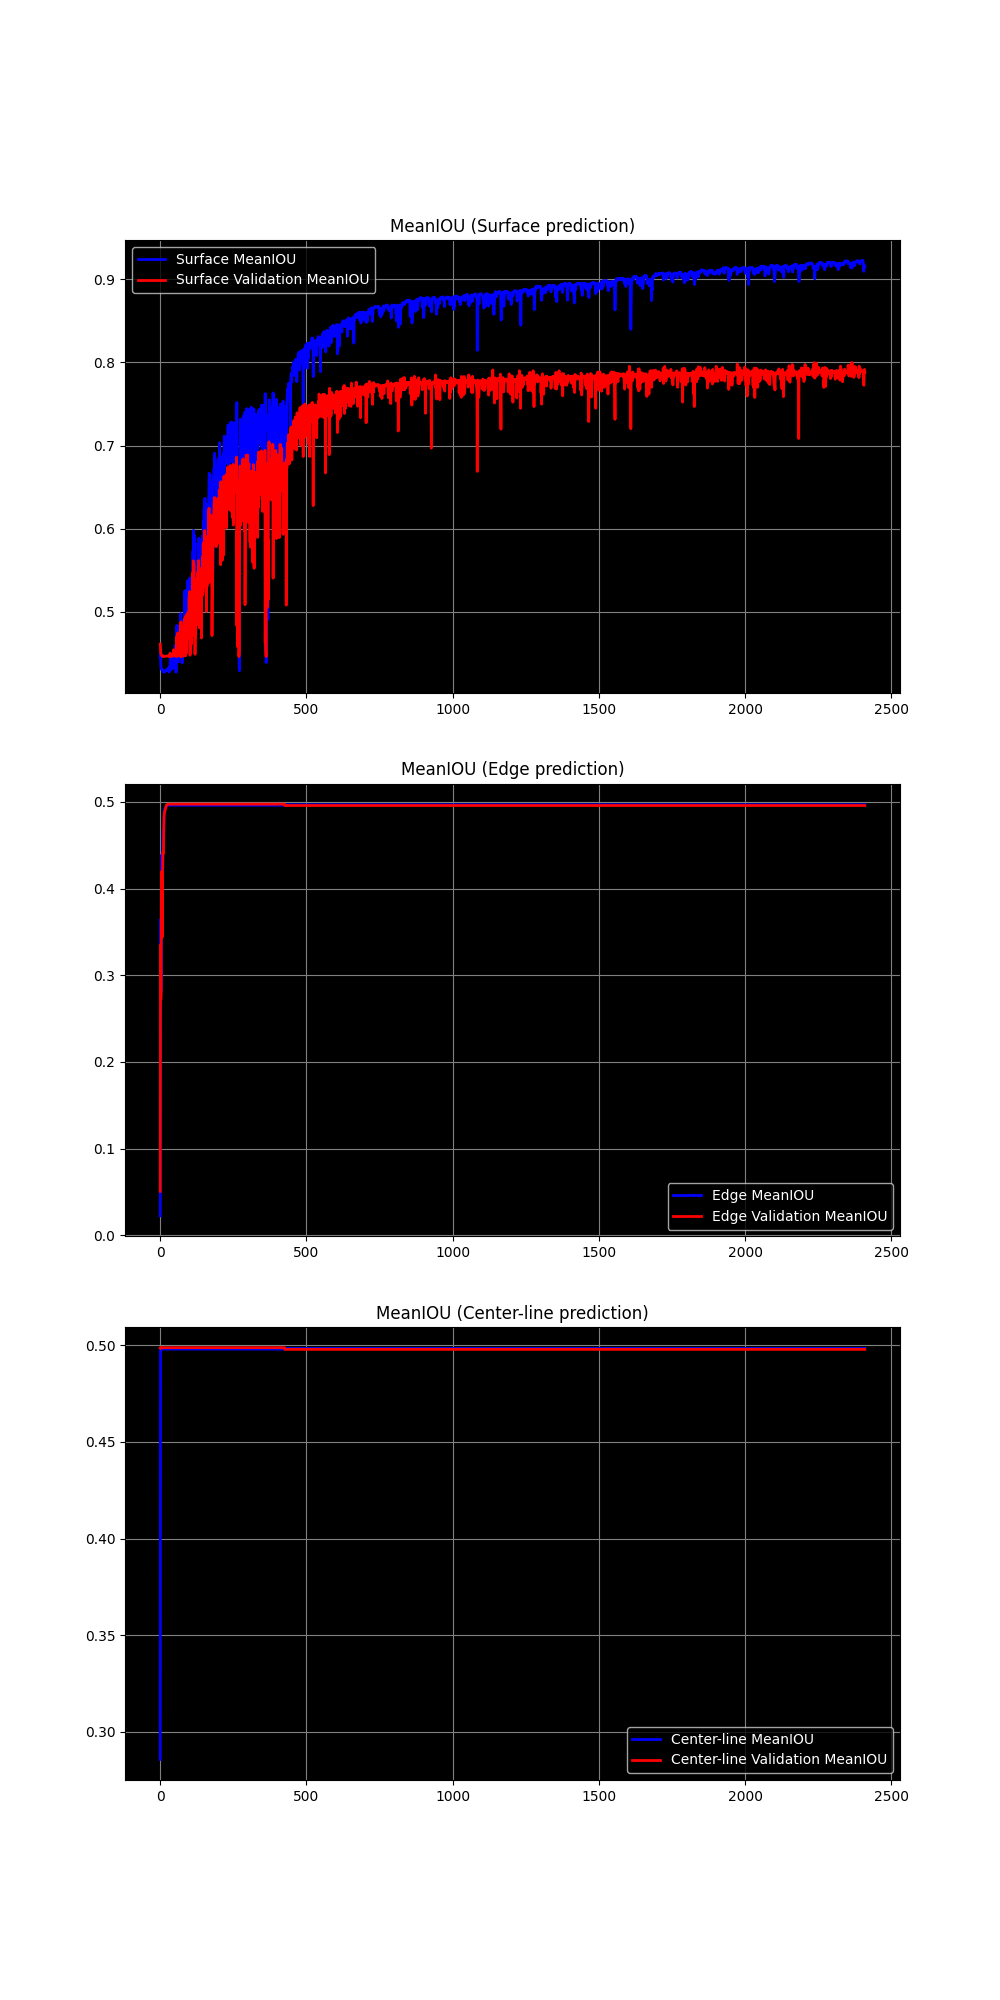
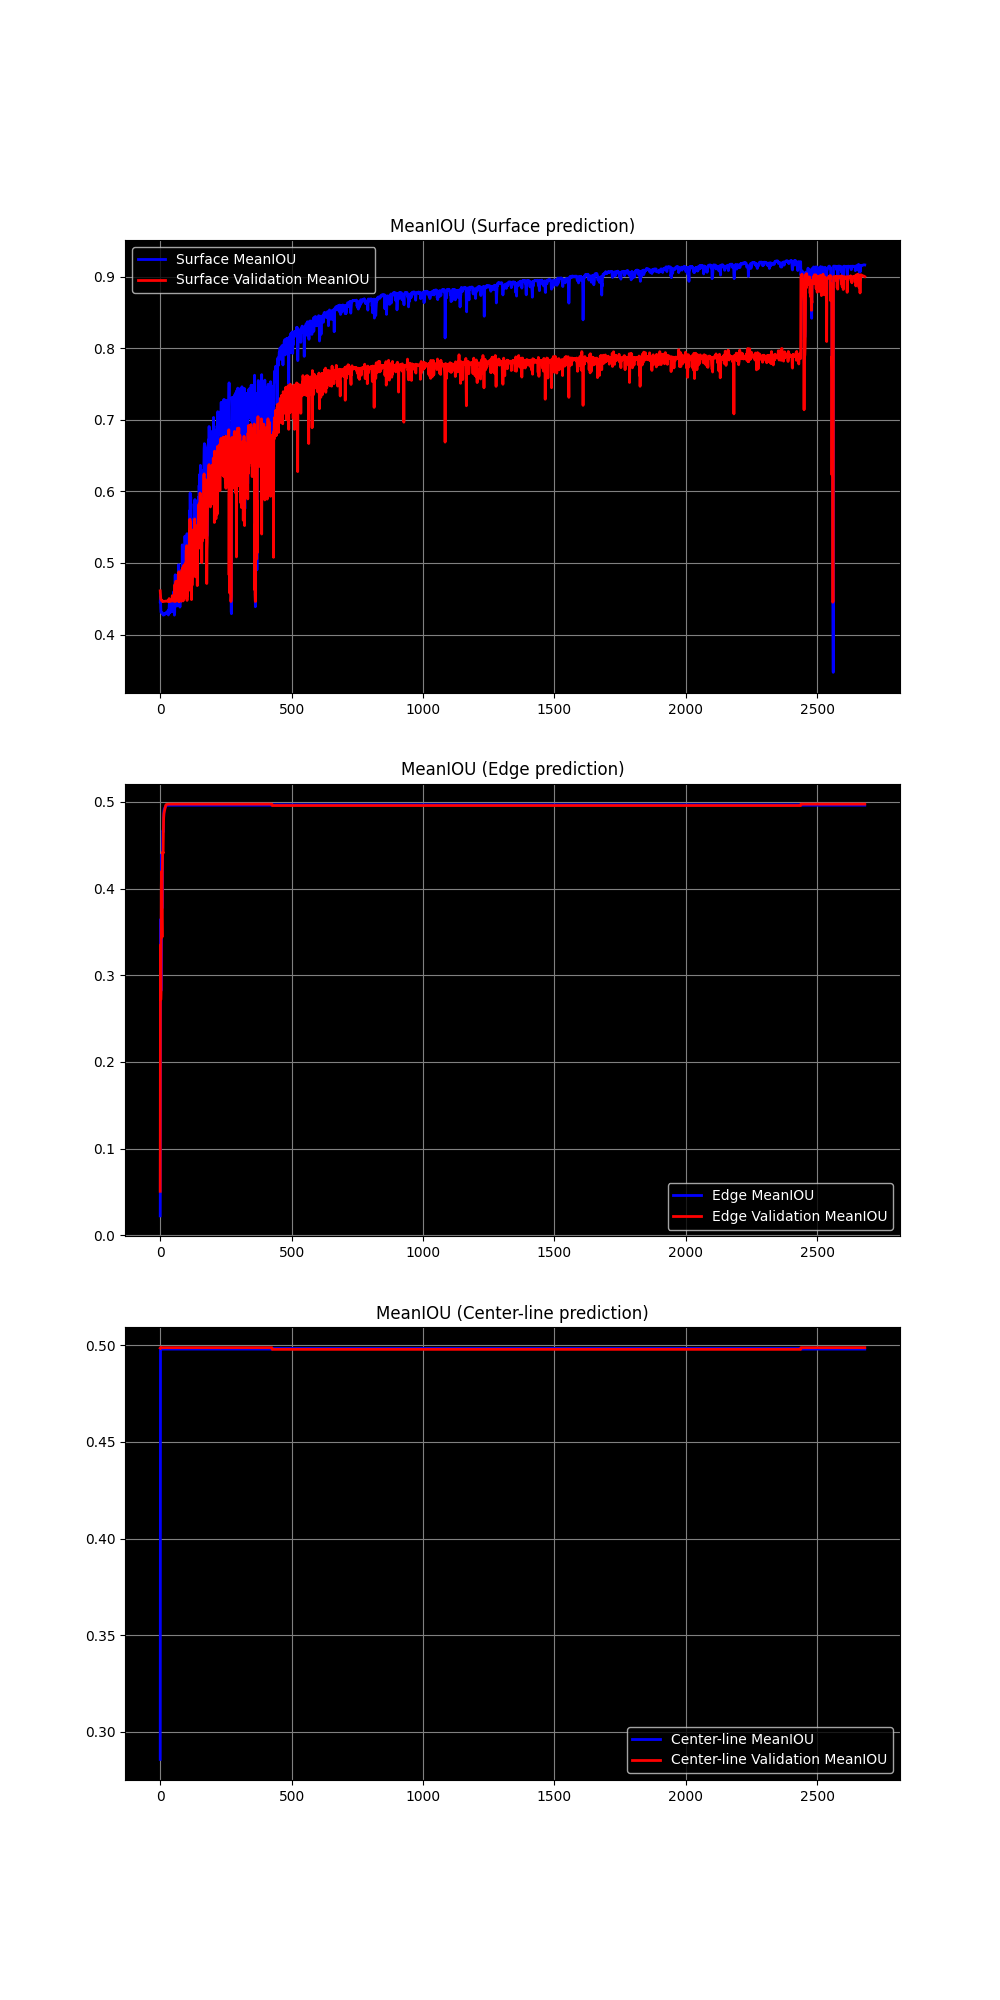
Modified training, roadnet and models scripts

diff --git a/train.py b/train.py
@@ -70,7 +70,8 @@ def lr_decay(i, lr):
 callbacks = [
     ModelCheckpoint(MODEL_CHECKPOINT, verbose=1, save_best_only=True),
     EarlyStopping(patience=PATIENCE, verbose=1),
-    CSVLogger('training.log.csv', append=True)
+    CSVLogger('training.log.csv', append=True),
+    LearningRateScheduler(lr_decay)
 ]
 
 balanced_loss = net.weighted_binary_crossentropy()
@@ -186,7 +187,7 @@ y_test = {
      'line_side_output_4' : test_labels_centerlines 
 }
 
-adam = tf.keras.optimizers.SGD(lr=1e-3, momentum=0.9)
+adam = tf.keras.optimizers.SGD(lr=5e-5, momentum=0.9)
 class MyMeanIOU(tf.keras.metrics.MeanIoU):
     def update_state(self, y_true, y_pred, sample_weight=None):
         return super().update_state(tf.argmax(y_true, axis=-1), tf.argmax(y_pred, axis=-1), sample_weight)

diff --git a/roadnet.py b/roadnet.py
@@ -95,9 +95,8 @@ class RoadNet(object):
             
             _epsilon = tf.convert_to_tensor(K.epsilon(), y_pred.dtype.base_dtype)
             y_pred = tf.clip_by_value(y_pred, _epsilon, 1 - _epsilon)
-
-            ### Covnert to logits ###
             y_pred = tf.math.log(y_pred/(1-y_pred))
+
             y_true = tf.cast(y_true, dtype=tf.float32)
 
             l2_norm = tf.reduce_mean((y_pred - y_true) ** 2) * 0.5

diff --git a/data_loader.py b/data_loader.py
@@ -4,7 +4,7 @@ import pickle
 import numpy as np
 import tensorflow as tf
 
-NUM_TRAIN_IMG = 100 
+NUM_TRAIN_IMG = 1000 
 DATA_DIR = 'data/'
 TRAIN_IMG_PICKLE = 'data/img.pickle'
 TRAIN_SEG_PICKLE = 'data/segments.pickle'
